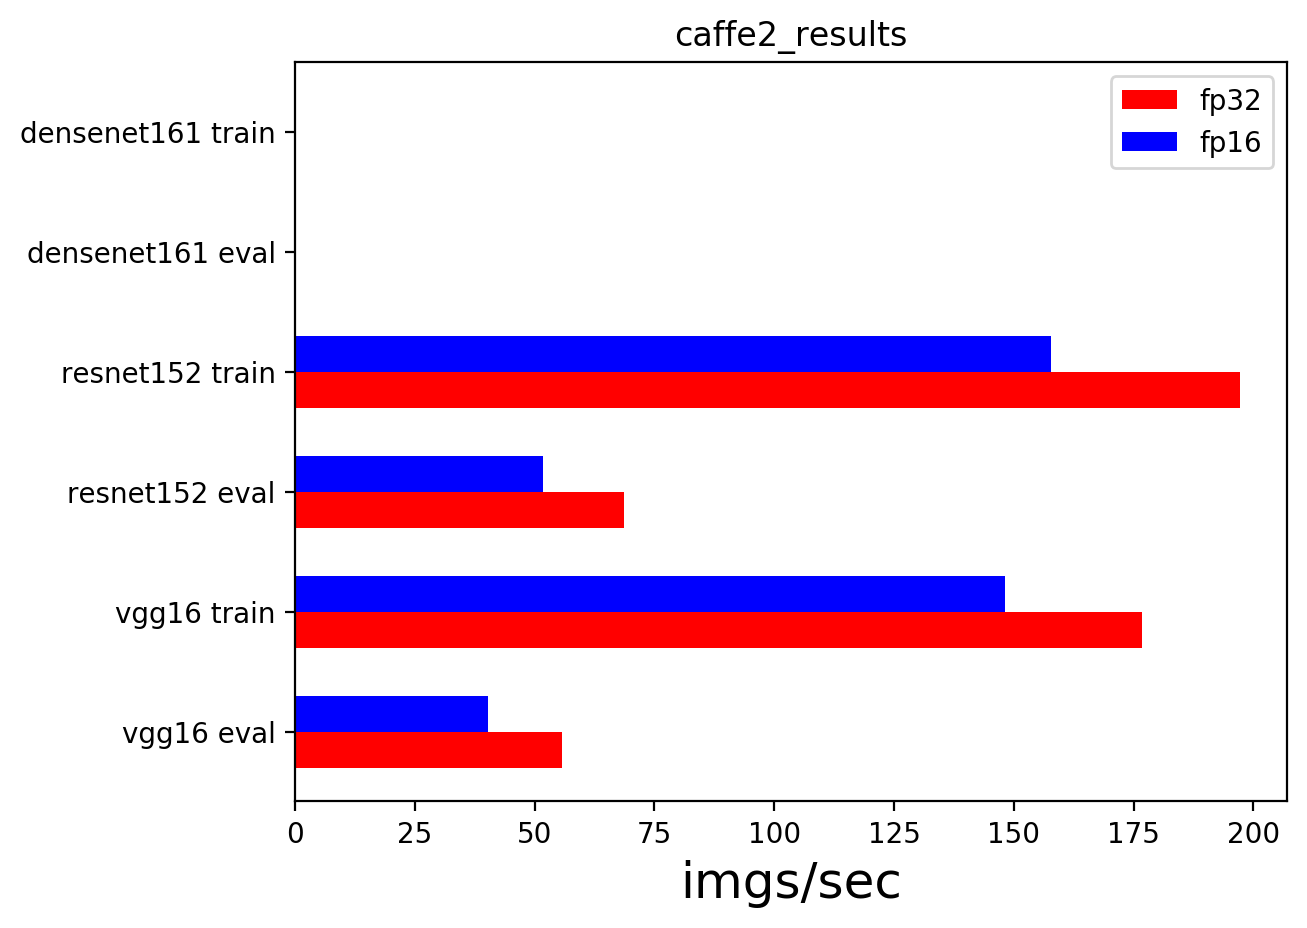
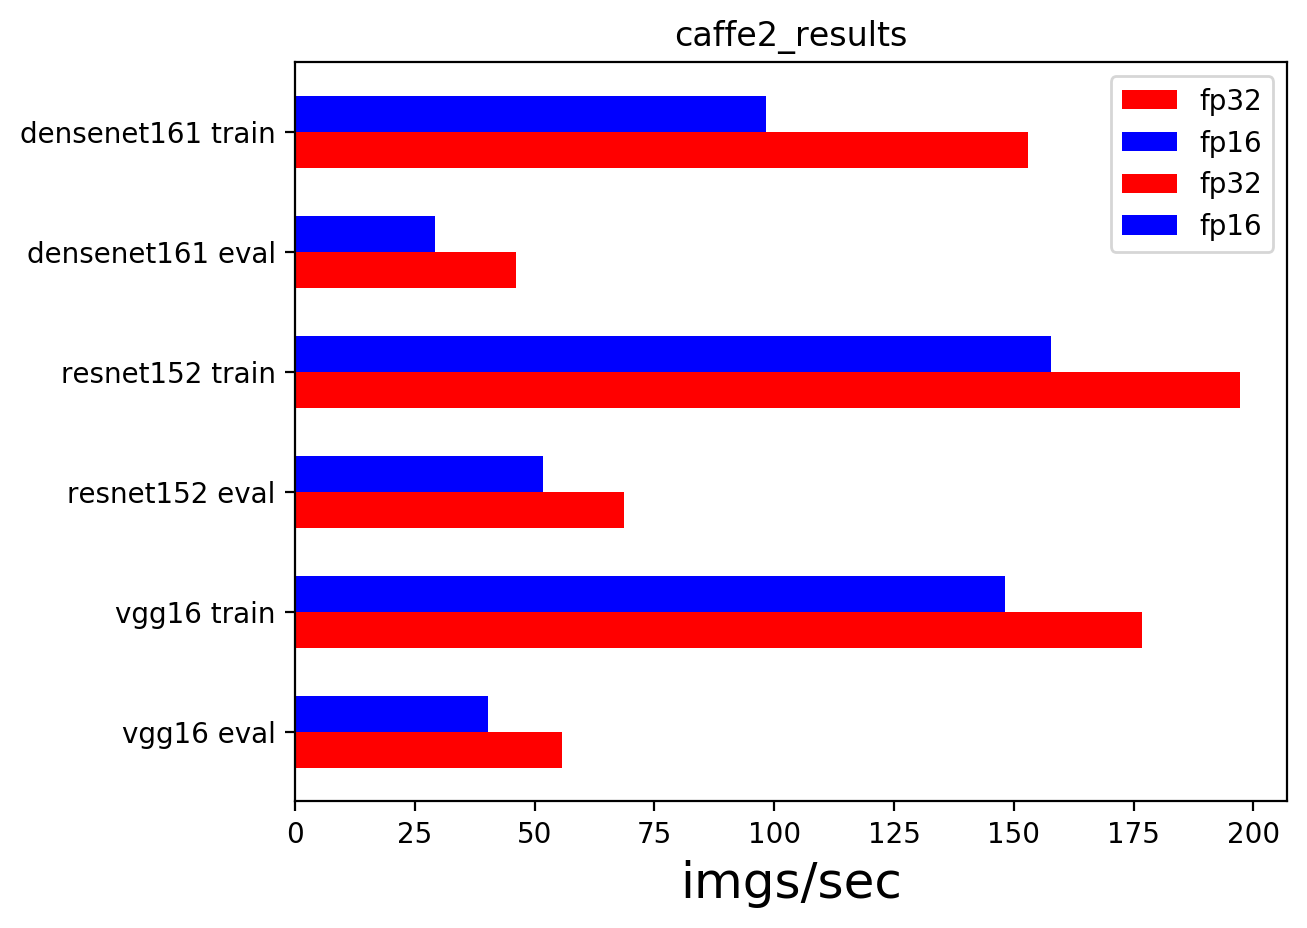
amend

Changed region(s): [[0.2142, 0.0938, 0.7957, 0.1875], [0.8569, 0.1562, 0.9793, 0.2812], [0.2142, 0.2188, 0.3979, 0.3125]]

diff --git a/data_argumenter.py b/data_argumenter.py
@@ -3,75 +3,52 @@ import numpy as np
 import matplotlib.pyplot as plt
 import os
 import sys
+import glob
 
-def makedir(path):
-    if not os.path.exists(path):
-        os.mkdir(path)
 
-def parser():
-    usage = 'Usage: python {} FILENAME'\
-            .format(__file__)
-    arguments = sys.argv
-    if len(arguments) == 1:
-        return usage
-    # ファイル自身を指す最初の引数を除去
-    arguments.pop(0)
-    # 引数として与えられたfile名
+os.chdir('pkl')
+pkl_files = glob.glob('*.pkl')
+df_array = []
+frame_name = []
+for file in pkl_files:
+    data = pd.read_pickle("{}".format(file))
+    ## PLTによるグラフ描画
+    tmp = []
+    for key, val in data.items():
+        tmp.append(val) 
+    left = np.arange(len(tmp[0]))  # numpyで横軸を設定
+    labels = ['vgg16 eval','vgg16 train','resnet152 eval','resnet152 train','densenet161 eval','densenet161 train']
+    height = 0.3
     
-    df_array = []
-    frame_name = []
-    for arg in arguments:
-        data = pd.read_pickle("{}".format(arg))
-
-        ## PLTによるグラフ描画
-
-        tmp = []
-        for key, val in data.items():
-            tmp.append(val) 
-        left = np.arange(len(tmp[0]))  # numpyで横軸を設定
-        labels = ['vgg16 eval','vgg16 train','resnet152 eval','resnet152 train','densenet161 eval','densenet161 train']
-        height = 0.3
-        
-        plt.barh(left, tmp[0], color='r', height=height, label='fp32', align='center')
-        plt.barh(left+height, tmp[1], color='b', height=height, label='fp16', align='center')
-
-        plt.legend(loc="best")
-        plt.title("{}".format(os.path.splitext(arg)[0]))
-        plt.xlabel("imgs/sec",fontsize=18)
-        
-
-        plt.yticks(left + height/2, labels)
-        makedir('./graph')
-        plt.savefig('./graph/{}.png'.format(os.path.splitext(arg)[0]),dpi=200, bbox_inches="tight")
-        # plt.show()   
-     
-
-        ## CSVのファイル作成
-
-        df = pd.DataFrame(data,index=['vgg16 eval','vgg16 train','resnet152 eval','resnet152 train','densenet161 eval','densenet161 train'])
-        df = df.rename(columns={'fp32':'32-bit','fp16':'16-bit'})
-        df_T = df.T
-        # print(df_T)
-        df_array.append(df_T)
-        other_ext_fname = os.path.splitext(arg)[0] + '.csv'
-        frame_name.append(os.path.splitext(arg)[0])
-        # print('{}'.format(os.path.splitext(arg)[0]))
-        
-        makedir('./csv')
-        df_T.to_csv("./csv/{}".format(other_ext_fname))
-
-        ### 小数点以下第2位までの表示方法
-
-        #     print(df_T.round(2))
-        #     other_ext_fname = os.path.splitext(fname)[0] + '.csv'
-        #     df_T.round(2).to_csv("{}".format(other_ext_fname),header='{}'.format(os.path.splitext(fname)[0]))
-
-    df_concat = pd.concat(df_array,axis=0,keys=frame_name)
-    print(df_concat)
-    df_concat.to_csv("./csv/all_results.csv")
-
-        
-
-if __name__== '__main__':
-    parser()
+    plt.barh(left, tmp[0], color='r', height=height, label='fp32', align='center')
+    plt.barh(left+height, tmp[1], color='b', height=height, label='fp16', align='center')
+    plt.legend(loc="best")
+    plt.title("{}".format(os.path.splitext(file)[0]))
+    plt.xlabel("imgs/sec",fontsize=18)
     
+    plt.yticks(left + height/2, labels)
+    os.makedirs('../graph',exist_ok=True)
+    plt.savefig('../graph/{}.png'.format(os.path.splitext(file)[0]),dpi=200, bbox_inches="tight")
+    # plt.show()   
+ 
+    ## CSVのファイル作成
+    df = pd.DataFrame(data,index=['vgg16 eval','vgg16 train','resnet152 eval','resnet152 train','densenet161 eval','densenet161 train'])
+    df = df.rename(columns={'fp32':'32-bit','fp16':'16-bit'})
+    df_T = df.T
+    # print(df_T)
+    df_array.append(df_T)
+    other_ext_fname = os.path.splitext(file)[0] + '.csv'
+    frame_name.append(os.path.splitext(file)[0])
+    # print('{}'.format(os.path.splitext(file)[0]))
+    
+    os.makedirs('../csv',exist_ok=True)
+    df_T.to_csv("../csv/{}".format(other_ext_fname))
+    ### 小数点以下第2位までの表示方法
+    #     print(df_T.round(2))
+    #     other_ext_fname = os.path.splitext(fname)[0] + '.csv'
+    #     df_T.round(2).to_csv("{}".format(other_ext_fname),header='{}'.format(os.path.splitext(fname)[0]))
+df_concat = pd.concat(df_array,axis=0,keys=frame_name)
+print(df_concat)
+df_concat.to_csv("../csv/all_results.csv")
+    
+

diff --git a/benchmark.py b/benchmark.py
@@ -2,8 +2,9 @@ import argparse
 from collections import OrderedDict
 from importlib import import_module
 import pickle
-
 import numpy as np
+
+import os
 
 frameworks = [
     'pytorch',
@@ -67,6 +68,8 @@ if __name__ == '__main__':
     if args.framework:
         print('running benchmark for framework', args.framework)
         results = Benchmark().benchmark_framework(args.framework)
+        if not os.path.exists('./pkl'):
+            os.mkdir('./pkl')
         pickle.dump(results, open('{}_results.pkl'.format(args.framework), 'wb'))
     else:
         print('running benchmark for frameworks', frameworks)
